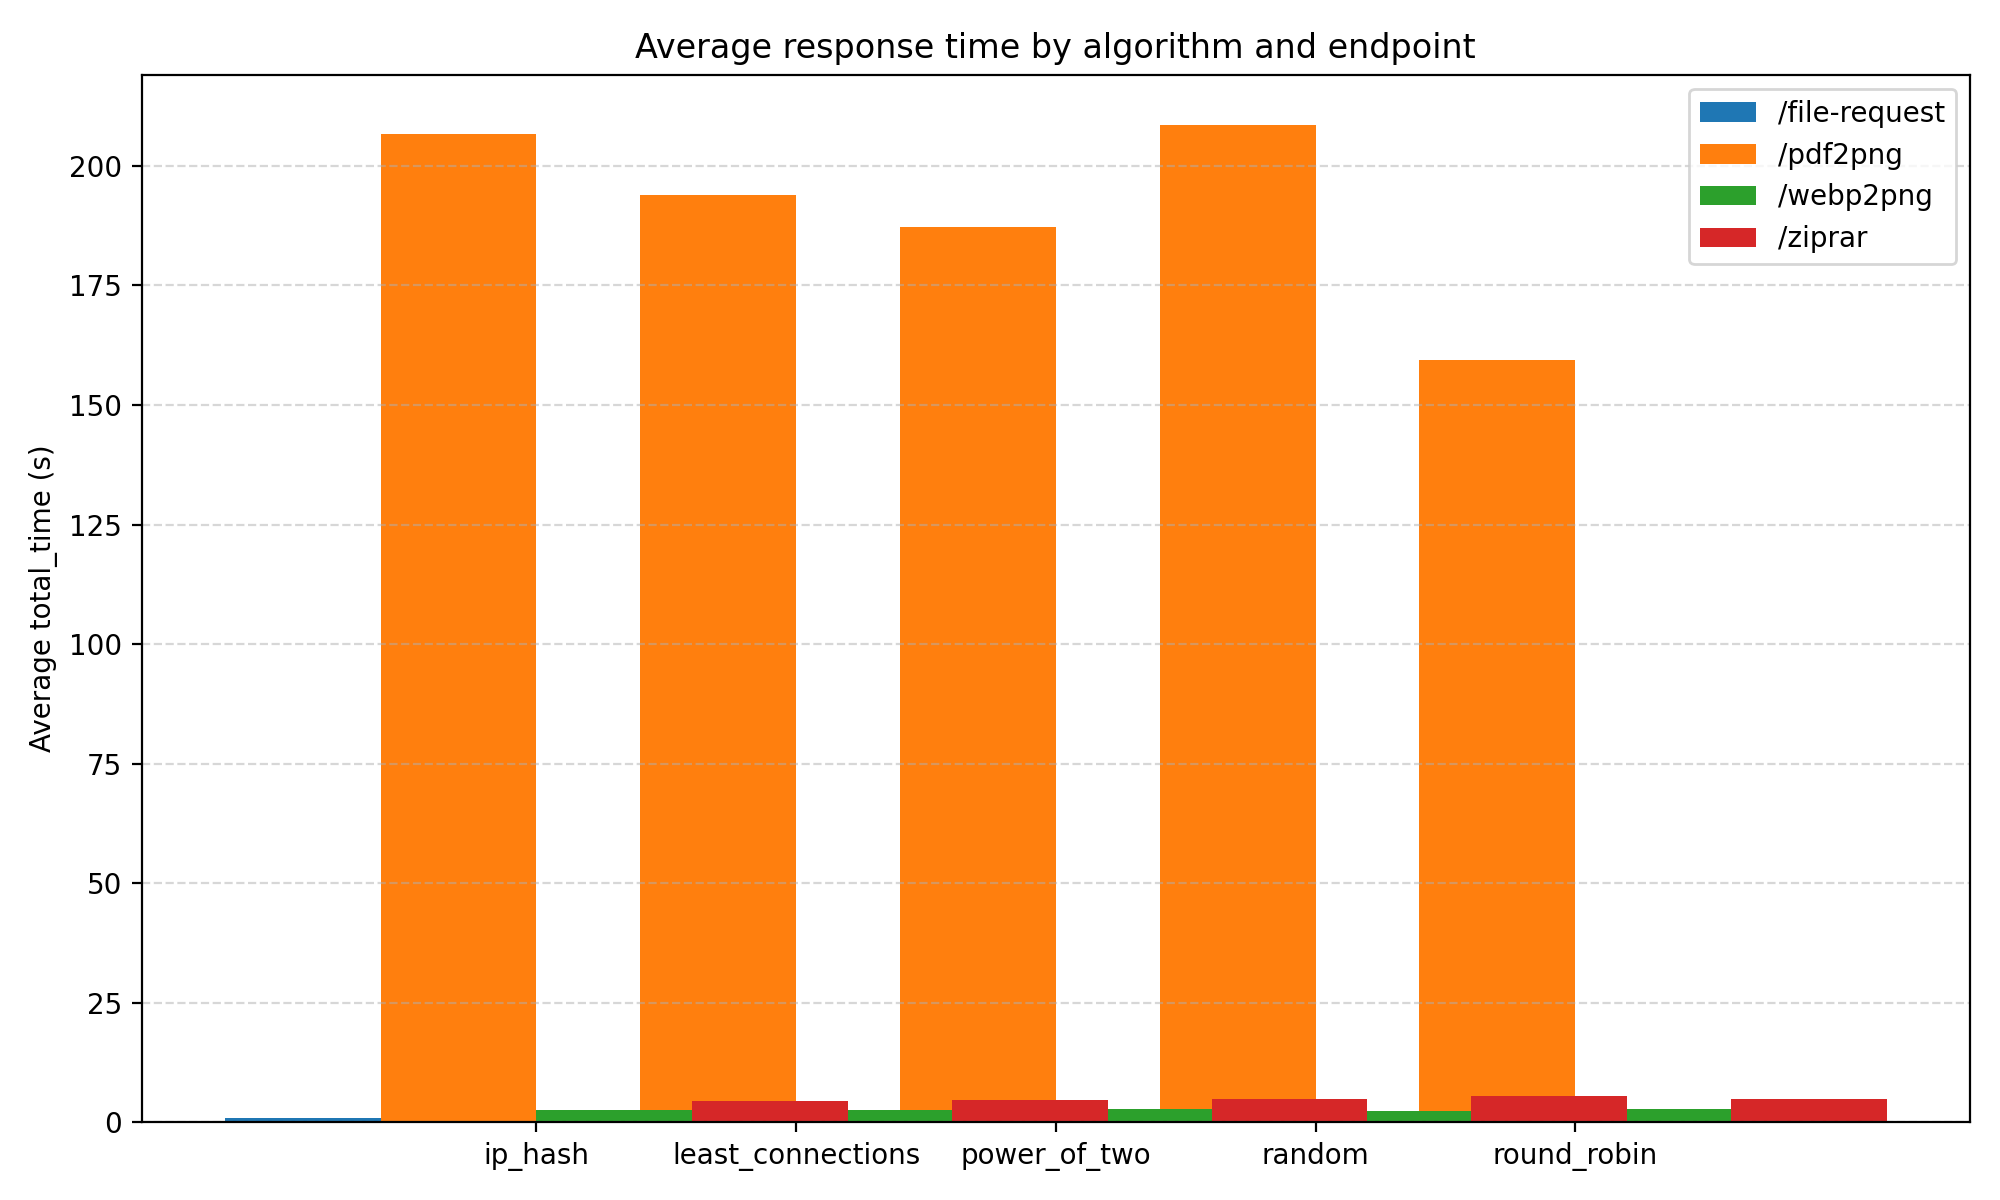
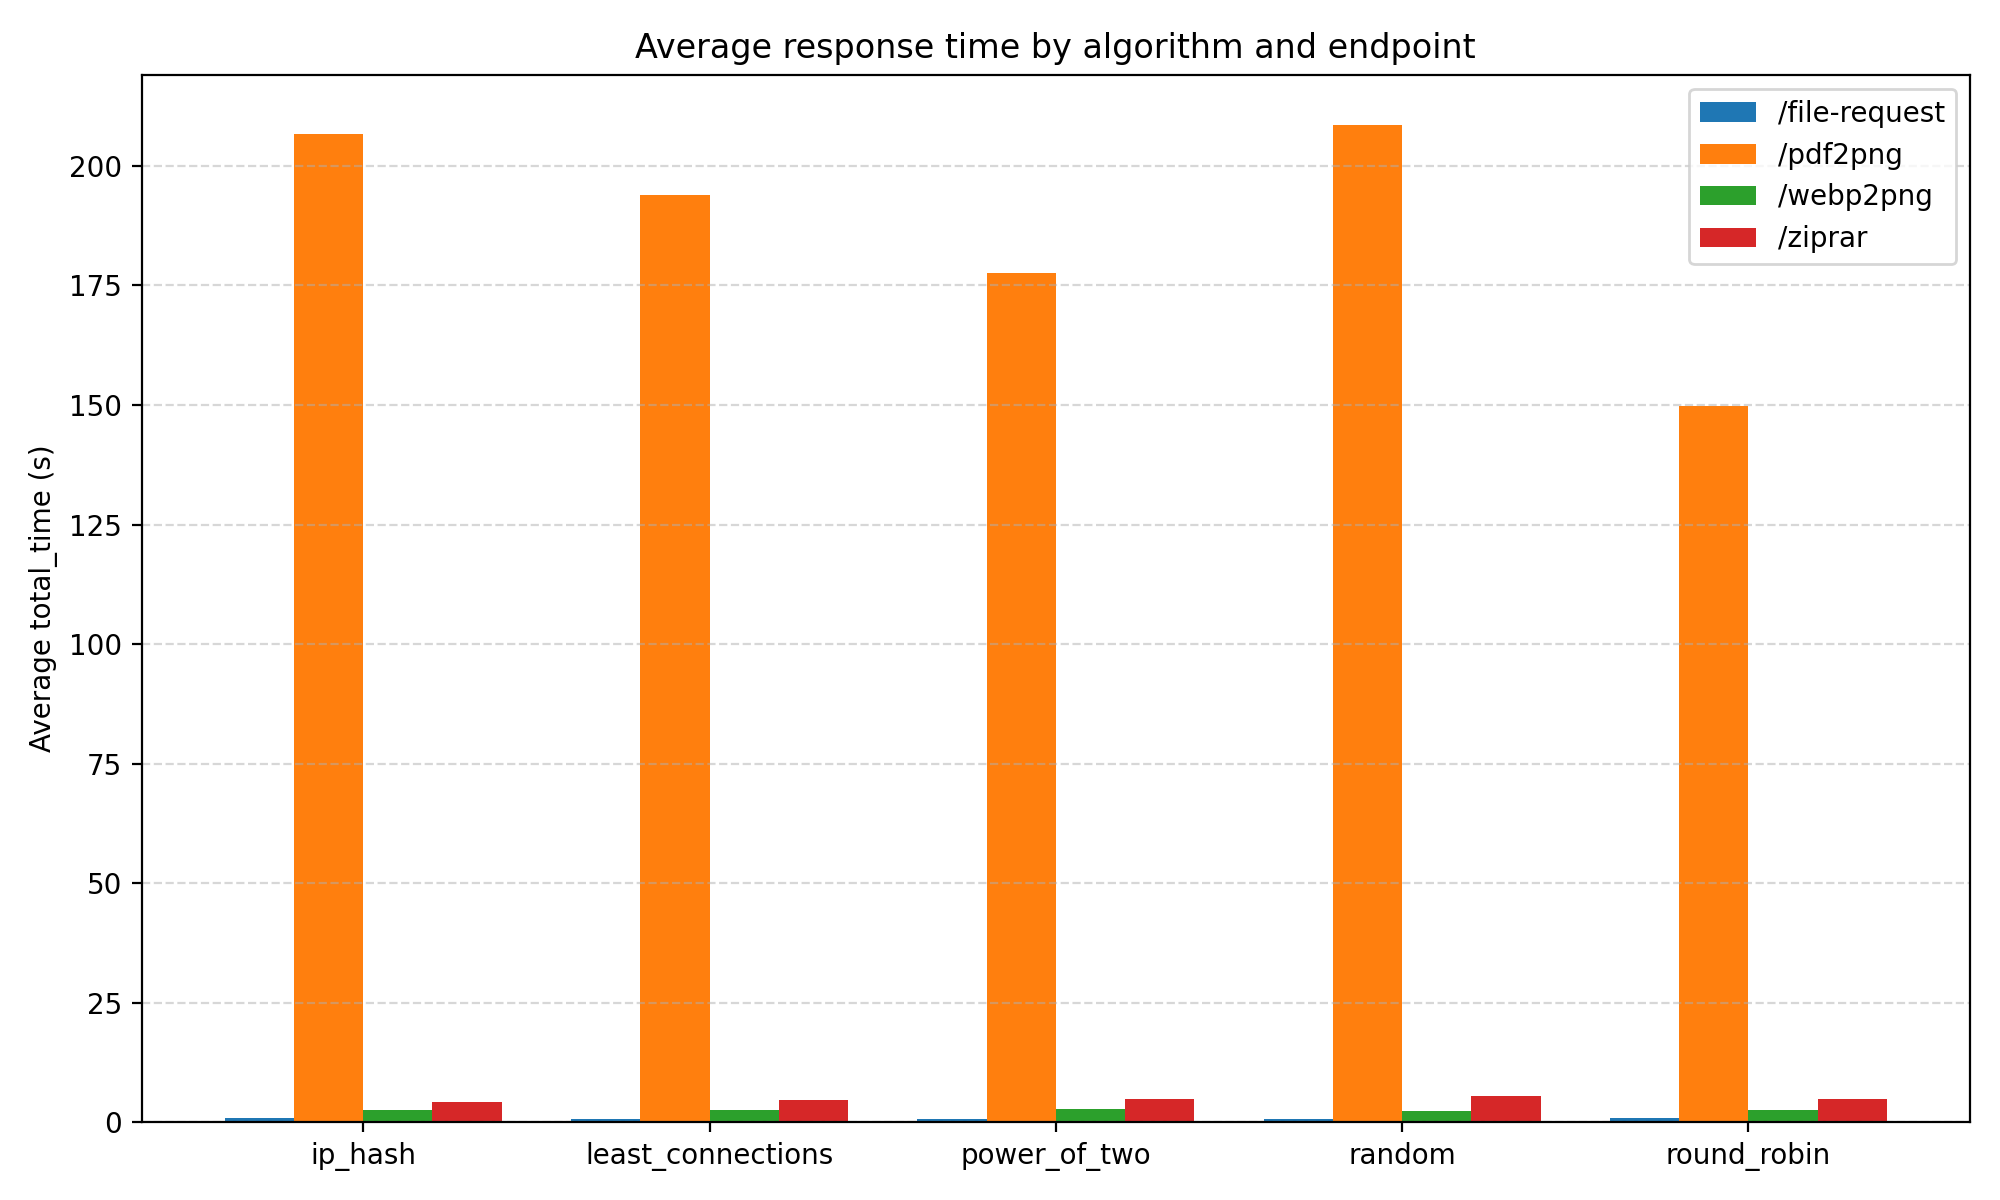
chore: fixed 'requests.db' placement in k6-script (load_test.js), fixed the logic of the plotting algorithm in analyzer (analyze.py)

diff --git a/backend/load_test.js b/backend/load_test.js
@@ -1,10 +1,10 @@
 import http from 'k6/http';
 import { check, sleep } from 'k6';
 
-const wavFile  = open('../data/input/sample.wav',  'b');
-const pdfFile  = open('../data/input/sample.pdf',  'b');
-const webpFile = open('../data/input/sample.webp', 'b');
-const rarFile  = open('../data/input/sample.rar',  'b');
+const wavFile  = open('data/input/sample.wav',  'b');
+const pdfFile  = open('data/input/sample.pdf',  'b');
+const webpFile = open('data/input/sample.webp', 'b');
+const rarFile  = open('data/input/sample.rar',  'b');
 
 const algorithms = [
   'round_robin',

diff --git a/backend/analyze.py b/backend/analyze.py
@@ -111,8 +111,8 @@ def plot_avg_time(csv_path: Path, title: str, output_file: Path, error_bars: boo
         print(f"No CSV found at {csv_path}, skipping plot.")
         return
 
+    # Load CSV data
     algorithms, endpoints, avg_times, stdevs = [], [], [], []
-
     with open(csv_path, newline="", encoding="utf-8") as f:
         reader = csv.DictReader(f)
         for row in reader:
@@ -125,15 +125,23 @@ def plot_avg_time(csv_path: Path, title: str, output_file: Path, error_bars: boo
     unique_algos = sorted(set(algorithms))
     endpoint_types = sorted(set(endpoints))
     x = np.arange(len(unique_algos))
-    width = 0.35 if len(endpoint_types) == 2 else 0.6
 
     fig, ax = plt.subplots(figsize=(10, 6) if not error_bars else (8, 5))
 
     if error_bars:
-        ax.bar(x, avg_times, width, yerr=stdevs, capsize=5)
+        ys = [next((t for a, t in zip(algorithms, avg_times) if a == algo), 0.0)
+              for algo in unique_algos]
+        errs = [next((s for a, s in zip(algorithms, stdevs) if a == algo), 0.0)
+                for algo in unique_algos]
+        ax.bar(x, ys, width=0.6, yerr=errs, capsize=5, color='skyblue')
+        ax.set_xticks(x)
+        ax.set_xticklabels(unique_algos, rotation=45, ha="right")
     else:
+        # Multiple bars per algorithm (different endpoints)
+        width = 0.35 if len(endpoint_types) <= 2 else 0.2
         for i, ep in enumerate(endpoint_types):
-            ys = [next((t for a, e, t in zip(algorithms, endpoints, avg_times) if a == algo and e == ep), 0.0)
+            ys = [next((t for a, e, t in zip(algorithms, endpoints, avg_times)
+                        if a == algo and e == ep), 0.0)
                   for algo in unique_algos]
             ax.bar(x + i * width, ys, width, label=ep)
         ax.set_xticks(x + width * (len(endpoint_types) - 1) / 2)
